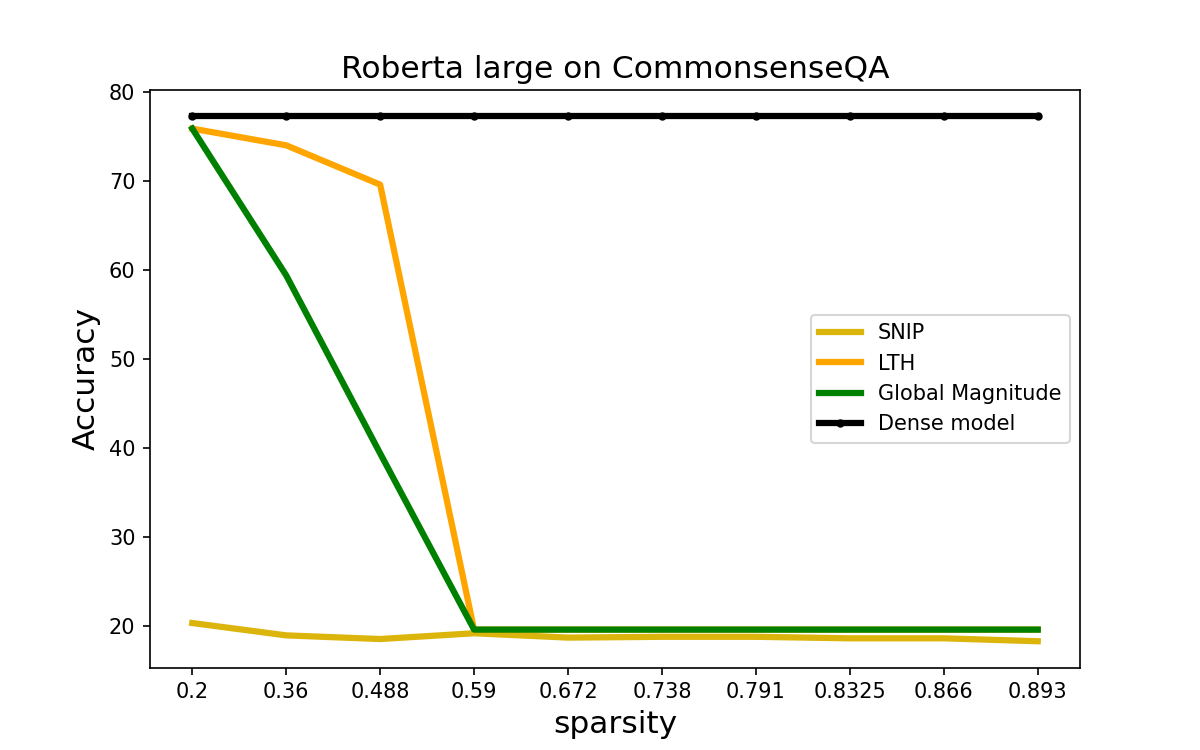
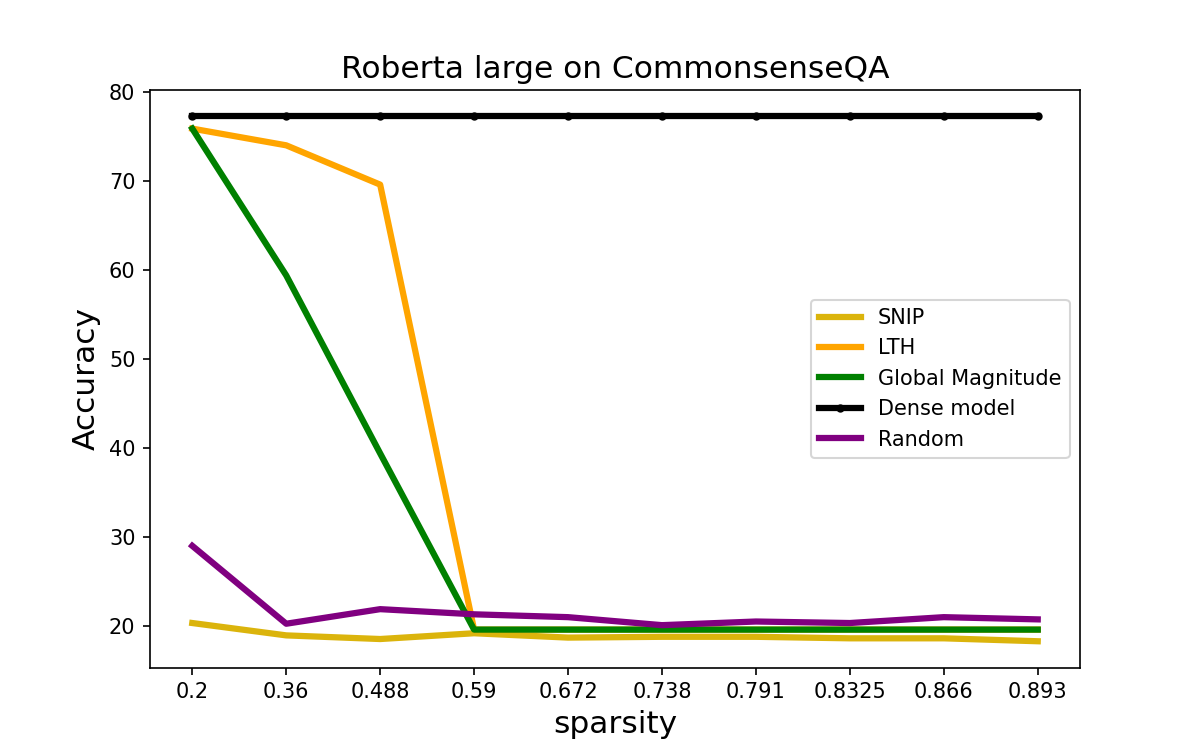
update plot

diff --git a/plot/winogrande.py b/plot/winogrande.py
@@ -8,22 +8,29 @@ markersize = 3
 dense = [77.31]
 
 acc_gm = []
-with open('/home/shiweiliu/PycharmProjects/fairseq/winogrande_gm_0.2.out') as file:
+with open('/Users/liushiwei/Projects/fairseq/results/reasoning/winogrande/winogrande_gm_0.2.out') as file:
     for line in file:
         if 'val | epoch 019 |' in line:
             acc_gm.append(float(line.split()[19][:-1]))
 
 acc_snip = []
-with open('/home/shiweiliu/PycharmProjects/fairseq/winogrande_snip_0.2.out') as file:
+with open('/Users/liushiwei/Projects/fairseq/results/reasoning/winogrande/winogrande_snip_0.2.out') as file:
     for line in file:
         if 'val | epoch 019 |' in line:
             acc_snip.append(float(line.split()[19][:-1]))
 
 acc_imp = []
-with open('/home/shiweiliu/PycharmProjects/fairseq/winogrande_imp_0.2.out') as file:
+with open('/Users/liushiwei/Projects/fairseq/results/reasoning/winogrande/winogrande_imp_0.2.out') as file:
     for line in file:
         if 'val | epoch 019 |' in line:
             acc_imp.append(float(line.split()[19][:-1]))
+
+acc_random = []
+with open('/Users/liushiwei/Projects/fairseq/results/reasoning/winogrande/cobert_winogrande_random.out') as file:
+    for line in file:
+        if 'val | epoch 019 |' in line:
+            acc_random.append(float(line.split()[19][:-1]))
+
 
 x_axis = range(10)
 
@@ -33,6 +40,7 @@ roberta_large = fig.add_subplot(1,1,1)
 roberta_large.plot(x_axis, acc_snip,  '-',   label='SNIP',color='#dbb40c',linewidth=3, markersize=markersize, )
 roberta_large.plot(x_axis, acc_imp[1:],  '-',   label='LTH',color='orange',linewidth=3, markersize=markersize, )
 roberta_large.plot(x_axis, acc_gm,  '-',   label='Global Magnitude',color='green',linewidth=3, markersize=markersize, )
+roberta_large.plot(x_axis, acc_random,  '-',   label='Random',color='purple',linewidth=3, markersize=markersize, )
 roberta_large.plot(x_axis, [acc_imp[0]]*10,  '-o',   label='Dense model',color='black',linewidth=3, markersize=markersize, )
 # vgg_all.plot(x_axis, [50]*11,  '-o',   label='random guess',color='gray',linewidth=3, markersize=markersize, )
 roberta_large.set_title('Roberta Large on WinoGrande',fontsize=fontsize)

diff --git a/plot/race.py b/plot/race.py
@@ -15,8 +15,18 @@ with open('/Users/liushiwei/Projects/TUE_projects/fairseq/results/cobert_race_TE
             acc_test.append(float(line.split()[19]))
         if ' | test1 | valid on' in line:
             acc_test1.append(float(line.split()[19]))
-print((acc_test))
-print(acc_test1)
+
+acc_test_random = []
+acc_test_random_high = []
+with open('/Users/liushiwei/Projects/fairseq/results/reasoning/race/cobert_race_random_test.out') as file:
+    for line in file:
+        if 'test | valid on' in line:
+            acc_test_random.append(float(line.split()[19]))
+        if ' | test1 | valid on' in line:
+            acc_test_random_high.append(float(line.split()[19]))
+
+
+
 acc_test_imp = acc_test[:10]
 acc_test_imp.append(26.1)
 acc_test_gm = acc_test[10:20]
@@ -38,6 +48,7 @@ roberta_large = fig.add_subplot(1,1,1)
 roberta_large.plot(x_axis, acc_test_snip_high,  '-',   label='SNIP',color='#dbb40c',linewidth=3, markersize=markersize, )
 roberta_large.plot(x_axis, acc_test_imp_high[1:],  '-',   label='LTH',color='orange',linewidth=3, markersize=markersize, )
 roberta_large.plot(x_axis, acc_test_gm_high,  '-',   label='Global Magnitude',color='green',linewidth=3, markersize=markersize, )
+roberta_large.plot(x_axis, acc_test_random_high,  '-',   label='Random',color='purple',linewidth=3, markersize=markersize, )
 roberta_large.plot(x_axis, [acc_test_imp_high[0]]*10,  '-o',   label='Dense model',color='black',linewidth=3, markersize=markersize, )
 # vgg_all.plot(x_axis, [50]*11,  '-o',   label='random guess',color='gray',linewidth=3, markersize=markersize, )
 roberta_large.set_title('Roberta Large on RACE high',fontsize=fontsize)

diff --git a/plot/Commonsense_qa.py b/plot/Commonsense_qa.py
@@ -12,6 +12,7 @@ x_lth = [0.2, 0.36, 0.488, 0.590, 0.672, 0.738, 0.791, 0.8325, 0.866, 0.893]
 
 robert_snip = [20.31, 18.92, 18.51, 19.16, 18.67, 18.76, 18.76, 18.59, 18.59, 18.26]
 robert_gm = [75.92, 59.41, 39.39, 19.57, 19.57, 19.57, 19.57, 19.57, 19.57, 19.57]
+robert_random = [28.99, 20.23, 21.87, 21.29, 20.97, 20.07, 20.48, 20.31, 20.97, 20.72]
 # 0.02 0.05 0.1 ... 0.9 0.95
 x_axis = range(10)
 
@@ -22,6 +23,7 @@ roberta_large.plot(x_axis, robert_snip,  '-',   label='SNIP',color='#dbb40c',lin
 roberta_large.plot(x_axis, robert_lth,  '-',   label='LTH',color='orange',linewidth=3, markersize=markersize, )
 roberta_large.plot(x_axis, robert_gm,  '-',   label='Global Magnitude',color='green',linewidth=3, markersize=markersize, )
 roberta_large.plot(x_axis, dense*10,  '-o',   label='Dense model',color='black',linewidth=3, markersize=markersize, )
+roberta_large.plot(x_axis, robert_random,  '-',   label='Random',color='purple',linewidth=3, markersize=markersize, )
 # vgg_all.plot(x_axis, [50]*11,  '-o',   label='random guess',color='gray',linewidth=3, markersize=markersize, )
 roberta_large.set_title('Roberta large on CommonsenseQA',fontsize=fontsize)
 roberta_large.set_xticks(range(10))
